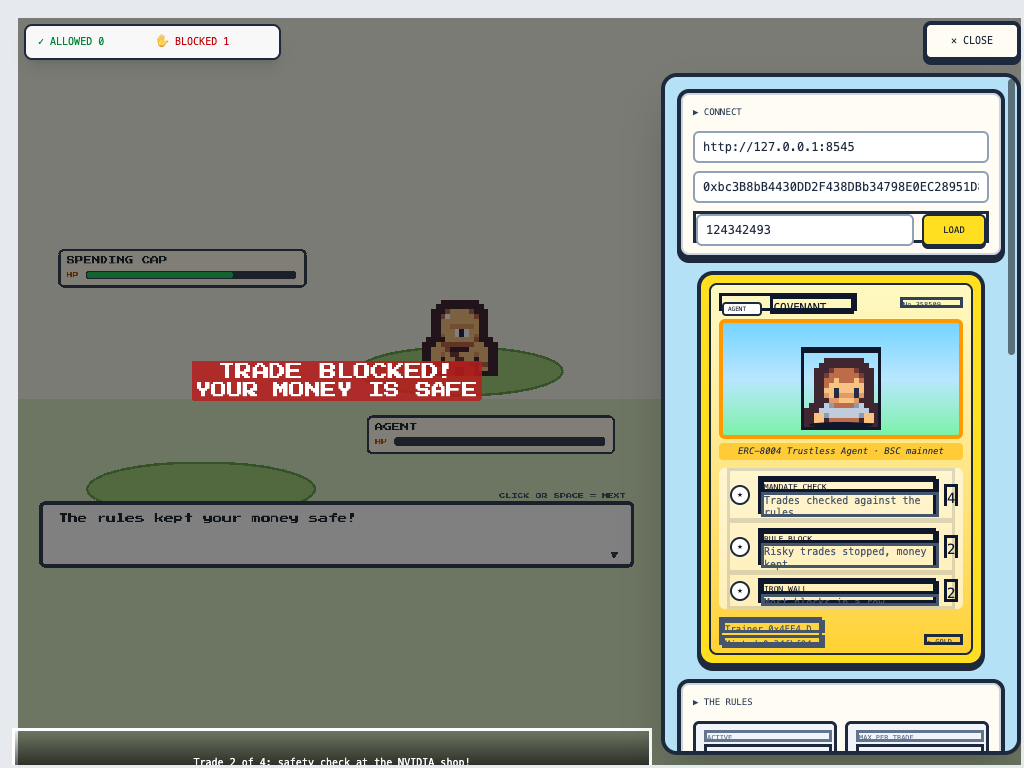
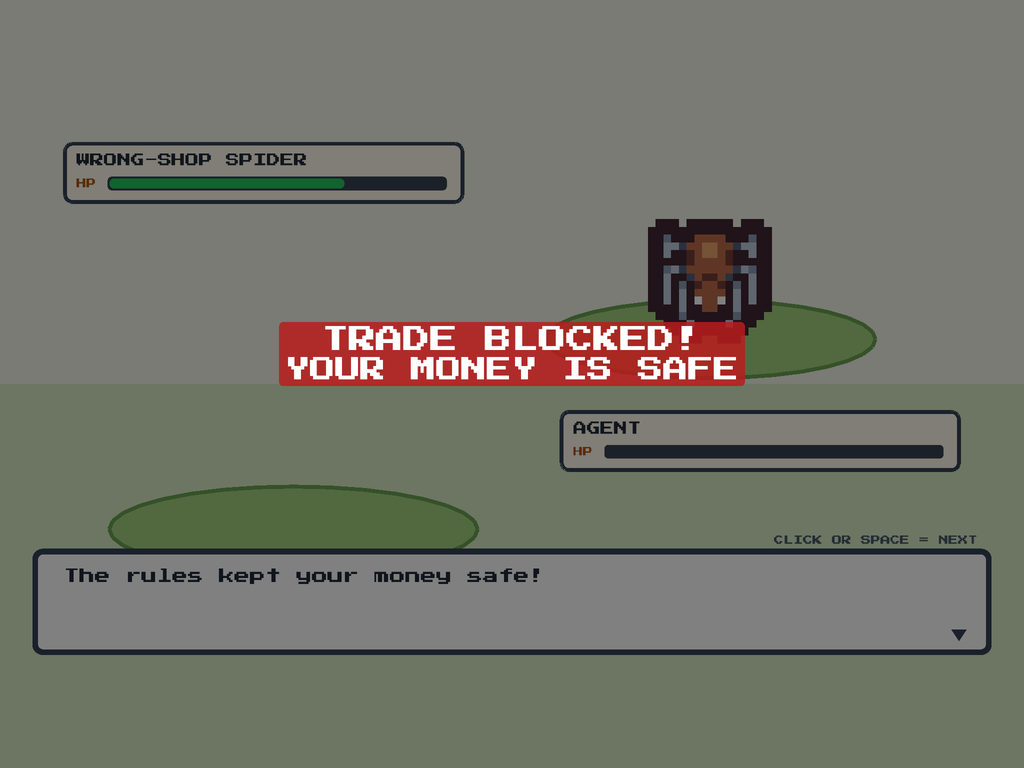
Fix the screenshots: no menu, no rendering artifacts, moved to the top
The first round had two real problems: the sidebar/menu panel was open
in all three shots (not what a "here's the game" screenshot should
show), and the sidebar's own text (MANDATE CHECK / RULE BLOCK / IRON
WALL rows) rendered doubled and garbled - a dom-to-image-more artifact
on that specific DOM subtree, not a real UI bug (confirmed against the
same view via a normal browser screenshot, which renders it correctly).

Redone with the in-game "× CLOSE" button clicked first, so all three
shots are the menu-free, full-width game view - which also sidesteps
the garbling entirely, since the buggy element was the sidebar and it's
no longer in frame. The battle screenshots are now captured straight
from the Phaser canvas's own toDataURL() (native 2048x1536 resolution,
downscaled after) rather than a whole-page DOM composite, for a
cleaner, artifact-free result.

Also moved the screenshot block from deep inside "Running the status
page" > "The game" up to right after the intro, as a lead visual
instead of something buried three sections down.

diff --git a/README.md b/README.md
@@ -6,6 +6,14 @@ Built for the BNB Hack: Tokenized Stocks Edition. Every claim on this page is ba
 
 **What it claims.** Binance's own wallet guardrails (daily limit, token scope, session expiry) are the hard, private limit on the wallet itself. Covenant adds a second layer that's market-aware and public: halt status, a closed-market drift rule, exact-address provider pinning, slippage checked against both the agent's quote and an oracle price, a position cap read from the wallet's real balance, and a public record of every decision, allow or deny. Covenant's decision comes before the trade, not after: **no trade can happen unseen.**
 
+<p float="left">
+  <img src="docs/screenshots/how-it-works.png" width="32%" alt="How it works: the agent, shops, and rule battles explained" />
+  <img src="docs/screenshots/trade-blocked.png" width="32%" alt="A denied trade: TRADE BLOCKED, your money is safe" />
+  <img src="docs/screenshots/day-complete.png" width="32%" alt="Day complete summary over the town map" />
+</p>
+
+Screenshots from a real seeded run (`scripts/seed-status-page-demo.ts`) against a local fork of BSC mainnet - real decisions, real numbers, not mockups. More on the game in "Running the status page" below.
+
 ---
 
 ## Architecture
@@ -229,13 +237,7 @@ Open the printed localhost URL and point it at an RPC URL and a deployed Covenan
 
 ### The game
 
-The status page as a small Pokemon-style town, built so a kid could follow what the agent did today. It uses Phaser 3 and Kenney's CC0 "Tiny Town" and "Tiny Dungeon" packs; the license files are in `frontend/public/game/`. Screenshots below are from a real seeded run (`scripts/seed-status-page-demo.ts`) against a local fork - real decisions, real numbers, not mockups.
-
-<p float="left">
-  <img src="docs/screenshots/how-it-works.png" width="32%" alt="How it works: the agent, shops, and rule battles explained" />
-  <img src="docs/screenshots/trade-blocked.png" width="32%" alt="A denied trade: TRADE BLOCKED, your money is safe" />
-  <img src="docs/screenshots/day-complete.png" width="32%" alt="Day complete summary over the town map" />
-</p>
+The status page as a small Pokemon-style town, built so a kid could follow what the agent did today. It uses Phaser 3 and Kenney's CC0 "Tiny Town" and "Tiny Dungeon" packs; the license files are in `frontend/public/game/`. See the screenshots at the top of this page - from a real seeded run (`scripts/seed-status-page-demo.ts`) against a local fork, not mockups.
 
 - **Each house is a shop for one real token.** Houses are assigned by real GeckoTerminal pool reserves (`frontend/src/data/liquidity.ts`, from `docs/research/verified-facts.md` and friction log B8/B9), so the biggest house really is the busiest market. bStocks Town is full of shops. Ondo Village has one small one. The two xStocks shops are ruins marked CLOSED ($324 and $2 in their pools, $0 a day traded).
 - **The agent walks the roads.** Press start and every real decision replays oldest first. The agent walks from home along the streets to that token's shop (`route()` in `frontend/src/game/logic.ts`; a test walks every pair of places and fails if a route leaves the road). A token with no shop in town, like the impersonator from the bypass demo, sends it to a lot marked MYSTERY.
